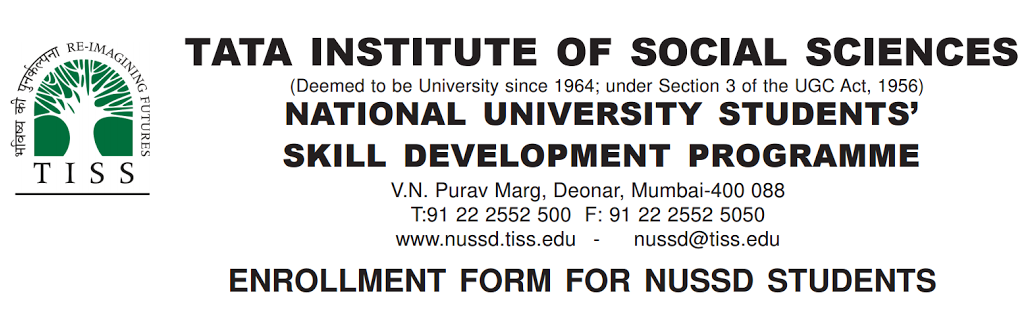
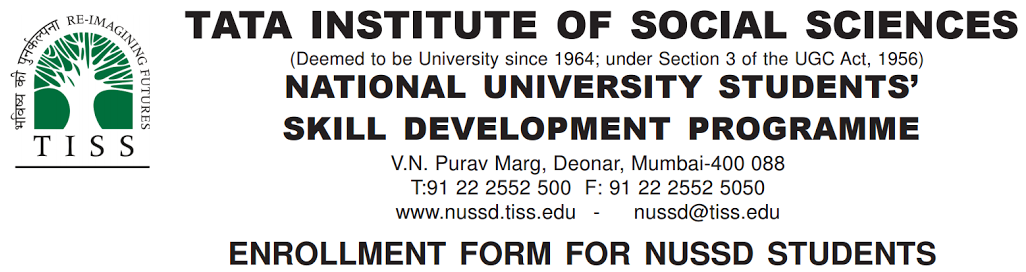
changes in width of form

diff --git a/gnowsys-ndf/gnowsys_ndf/ndf/templates/ndf/tiss_app_form.html b/gnowsys-ndf/gnowsys_ndf/ndf/templates/ndf/tiss_app_form.html
@@ -42,22 +42,22 @@
 
   <div id="testing" style="margin-right:2px;">
     <!-- Header -->
-    <div class="text-center" style="margin-bottom:2rem;">
-    <img src="/static/ndf/images/tiss_form_header.png" width="550px">
+    <br>
+    <div class="text-center" style="margin-bottom:0.125rem;">
+    <img src="/static/ndf/images/tiss_form_header.png" width="530px">
     {% if node.user_photo %}
-      <img src="/{{groupid}}/file/readDoc/{{node.user_photo}}" width="100px" style="display:inline-block;margin-top:4rem;">
+      <img src="/{{groupid}}/file/readDoc/{{node.user_photo}}" width="100px" style="display:inline-block;margin-top:2rem;">
     {% endif %}
     </div>
     Form No. {{node.enrollment_code}}
-    </br>
     <!-- Course -->
-    <table class="fullWidth">
+    <table class="fullWidth" style="margin-top:0.25rem;">
       <tbody>
         <tr>
           <td width="2%">I.</td>
-          <td width="25%">Organization</td></br>
+          <td width="35%">Organization</td></br>
           <td width="1%"></td>
-          <td width="72%"></td>
+          <td width="62%"></td>
         </tr>
         <tr>
           <td></td>
@@ -79,9 +79,9 @@
       <tbody>
         <tr>
           <td width="2%">II.</td>
-          <td width="25%">Personal</td>
+          <td width="35%">Personal</td>
           <td width="1%"></td>
-          <td width="72%" colspan="3"></td>
+          <td width="62%" colspan="3"></td>
           <!-- <th></th> -->
           <!-- <th></th> -->
         </tr>
@@ -129,7 +129,7 @@
           <td></td>
           <td>Religion</td>
           <td>:</td>
-          <td width="25%">{{node.religion|default_if_none:""}}</td>
+          <td width="35%">{{node.religion|default_if_none:""}}</td>
           <td width="48%" colspan="2">Caste Category : {{node.student_of_caste_category.0.name|default_if_none:""}}</td>
         </tr>
         <tr>
@@ -144,14 +144,14 @@
           <td></td>
           <td>Mobile No.</td>
           <td>:</td>
-          <td width="25%">{{node.mobile_number|default_if_none:""}}</td>
+          <td width="35%">{{node.mobile_number|default_if_none:""}}</td>
           <td width="48%" colspan="2 "></td>
         </tr>
         <tr>
           <td></td>
-          <td>Alternate No./Landline </td>
+          <td>Alternate No./Landline</td>
           <td>:</td>
-          <td width="38%" colspan="3">{{node.alternate_number|default_if_none:"  -  "}}</td>
+          <td colspan="3">{{node.alternate_number|default_if_none:"  -  "}}</td>
         </tr>
         <tr>
           <td></td>
@@ -178,9 +178,9 @@
       <tbody>
         <tr>
           <td width="2%">III.</td>
-          <td width="25%">Address</td>
+          <td width="35%">Address</td>
           <td width="1%"></td>
-          <td width="72%" colspan="3"></td>
+          <td width="62%" colspan="3"></td>
           <!-- <th></th> -->
           <!-- <th></th> -->
         </tr>
@@ -204,7 +204,7 @@
           <td></td>
           <td>Taluka</td>
           <td>:</td>
-          <td width="25%">{{node.taluka|default_if_none:""}}</td>
+          <td width="35%">{{node.taluka|default_if_none:""}}</td>
           <td width="48%" colspan="2">Town/City : {{node.town_city|default_if_none:""}}</td>
           <!-- <td></td> -->
         </tr>
@@ -212,7 +212,7 @@
           <td></td>
           <td>State</td>
           <td>:</td>
-          <td width="25%">{{node.person_belongs_to_state.0.name|default_if_none:""}}</td>
+          <td width="35%">{{node.person_belongs_to_state.0.name|default_if_none:""}}</td>
           <td width="48%" colspan="2">District : {{node.person_belongs_to_district.0.name|default_if_none:""}}</td>
           <!-- <td></td> -->
         </tr>
@@ -234,9 +234,9 @@
       <tbody>
         <tr>
           <td width="2%">IV.</td>
-          <td width="25%">Educational</td>
+          <td width="35%">Educational</td>
           <td width="1%"></td>
-          <td width="72%" colspan="3"></td>
+          <td width="62%" colspan="3"></td>
           <!-- <th></th> -->
           <!-- <th></th> -->
         </tr>
@@ -244,21 +244,21 @@
           <td></td>
           <td>Year of Passing XII</td>
           <td>:</td>
-          <td width="25%">{{node.12_passing_year|date:"d-m-Y"}}</td>
+          <td width="35%">{{node.12_passing_year|date:"d-m-Y"}}</td>
           <td width="48%" colspan="2">Year of Study (I/II/III) : {{node.degree_year|default_if_none:""}}</td>
         </tr>
         <tr>
           <td></td>
           <td>Name of Degree</td>
           <td>:</td>
-          <td width="25%">{{node.degree_name|default_if_none:""}}</td>
+          <td width="35%">{{node.degree_name|default_if_none:""}}</td>
           <td width="48%" colspan="2">Stream/Subject : {{node.degree_specialization|default_if_none:""}}</td>
         </tr>
         <tr>
           <td></td>
           <td class="nss_reg_td">Are you registered with NSS?</td>
           <td>:</td>
-          <td width="25%">{% if node.is_nss_registered %}Yes{% else %}No {% endif %} </td>
+          <td width="35%">{% if node.is_nss_registered %}Yes{% else %}No {% endif %} </td>
           <td width="48%" colspan="2">College Roll No. : {{node.college_enroll_num|default_if_none:""}}</td>
         </tr>
       </tbody>
@@ -269,7 +269,7 @@
       <tbody>
         <tr>
           <td width="2%">V.</td>
-          <td width="25%">Declaration</td>
+          <td width="35%">Declaration</td>
           <td width="73%"></td>
         </tr>
         <tr>
@@ -280,13 +280,13 @@
           <!-- <td></td> -->
         </tr>
         <tr>
-          <td width="25%" colspan="2">
+          <td width="35%" colspan="2">
               {% if node.signature %}
             	 <img src="/{{groupid}}/file/readDoc/{{node.signature}}" width="125px" style="margin-left:3rem;">
               {% endif %}
 		      </td>
 		      <!-- <td></td> -->
-          <td width="25%" class="text-right">{{node.registration_date|date:"d-m-Y"}}</td>
+          <td width="35%" class="text-right">{{node.registration_date|date:"d-m-Y"}}</td>
 
         </tr>
 

diff --git a/gnowsys-ndf/gnowsys_ndf/ndf/templates/ndf/person_details.html b/gnowsys-ndf/gnowsys_ndf/ndf/templates/ndf/person_details.html
@@ -274,10 +274,9 @@ function printDiv(divID) {
     document.body.innerHTML = "<html><body>" + divElements + "</body></html>";
     //Print Page
     document.body.style.marginLeft = '2rem';
-    // document.body.style.lineHeight = '0em';
+    document.body.style.marginRight = '2rem';
     $("body table tbody tr td").css("lineHeight","0.125rem");
     $("body .declration_td,.nss_reg_td").css("lineHeight","1.125rem");
-    // $("body ").css("marginBottom","1.0rem");
         
     window.print();
 
